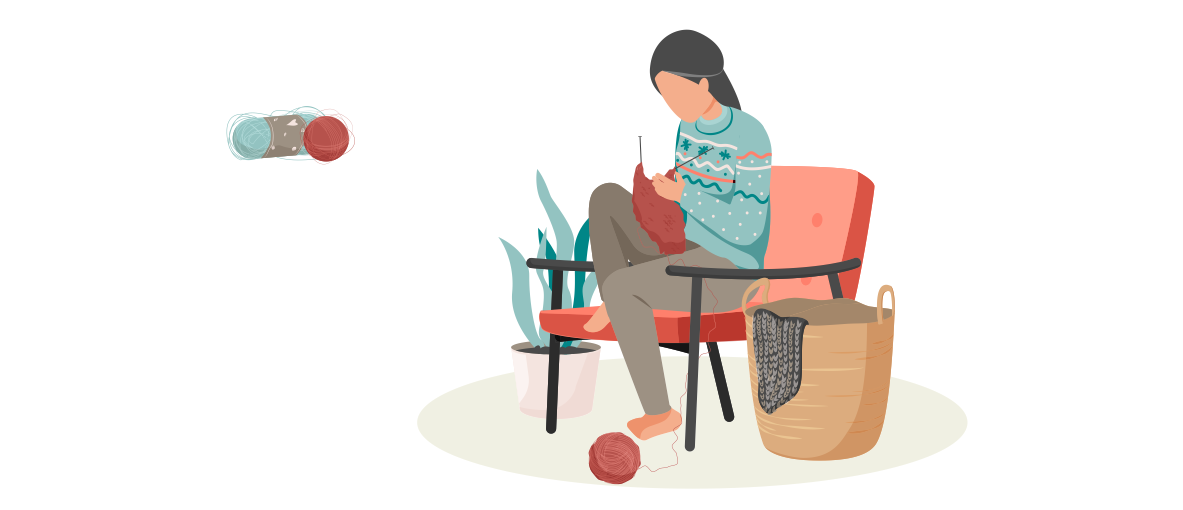
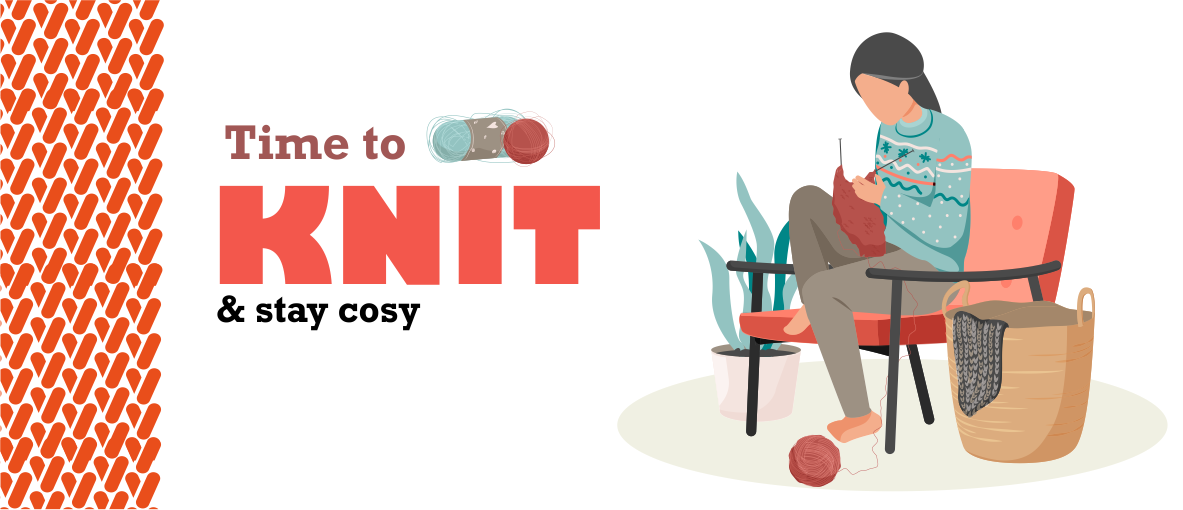
hero section changes

diff --git a/src/Components/HeroSection.jsx b/src/Components/HeroSection.jsx
@@ -1,11 +1,12 @@
 import React from "react";
 import Carousel from 'react-bootstrap/Carousel';
+import Nav from 'react-bootstrap/Nav';
 
 function IndividualIntervalsExample() {
   return (
     <Carousel id="home" nextLabel='' prevLabel='' indicators={true} slide={false}
-    autoPlay={true}
-    interval={3000}
+      autoPlay={true}
+      interval={3000}
     >
       <Carousel.Item>
         <img
@@ -14,7 +15,7 @@ function IndividualIntervalsExample() {
           alt="First slide"
         />
         <Carousel.Caption>
-          <h3>First slide label</h3>
+          <Nav.Link href="/#learn"><div className="carousel-caption-custom">Get Started!</div></Nav.Link>
         </Carousel.Caption>
       </Carousel.Item>
       <Carousel.Item>
@@ -24,17 +25,7 @@ function IndividualIntervalsExample() {
           alt="Second slide"
         />
         <Carousel.Caption>
-          <h3>Second slide label</h3>
-        </Carousel.Caption>
-      </Carousel.Item>
-      <Carousel.Item>
-        <img
-          className="d-block w-100"
-          src="./hero-bg.jpg"
-          alt="Third slide"
-        />
-        <Carousel.Caption>
-          <h3>Third slide label</h3>
+          <Nav.Link href="/#contact"><div className="carousel-caption-custom">Help us Improve!</div></Nav.Link>
         </Carousel.Caption>
       </Carousel.Item>
     </Carousel>

diff --git a/src/App.css b/src/App.css
@@ -42,22 +42,6 @@ body {
   background-color: #000;
 }
 
-/* .carousel-control-prev {
-  opacity: 1;
-  color:#000;
-} */
-
-.carousel-control-prev-icon {
-  /* opacity: 1; */
-  border-radius: 50%;
-  background-color: #000; 
-}
-.carousel-control-next-icon {
-  /* opacity: 1; */
-  border-radius: 50%;
-  background-color: #000; 
-}
-
 .carousel-indicators button:active {
   background-color: #000;
 }
@@ -66,8 +50,18 @@ body {
   outline: none;
 }
 
-.carousel-caption {
-  color: #000;
+.carousel-caption-custom {
+  background-color: #000;
+  width: fit-content;
+  margin: 0 auto;
+  padding: 0.4rem 1rem;
+  border-radius: 2rem;
+  color: var(--white);
+}
+
+.carousel-caption-custom:hover {
+  background-color: var(--primary-dark);
+  font-size: 1.1rem;
 }
 
 /*--------------------------------------------------------------
@@ -338,7 +332,7 @@ a:hover {
 }
 
 .list-group-item:hover {
-  background-color: #E9ECEF;
+  background-color: #e9ecef;
 }
 
 .wide-link {
